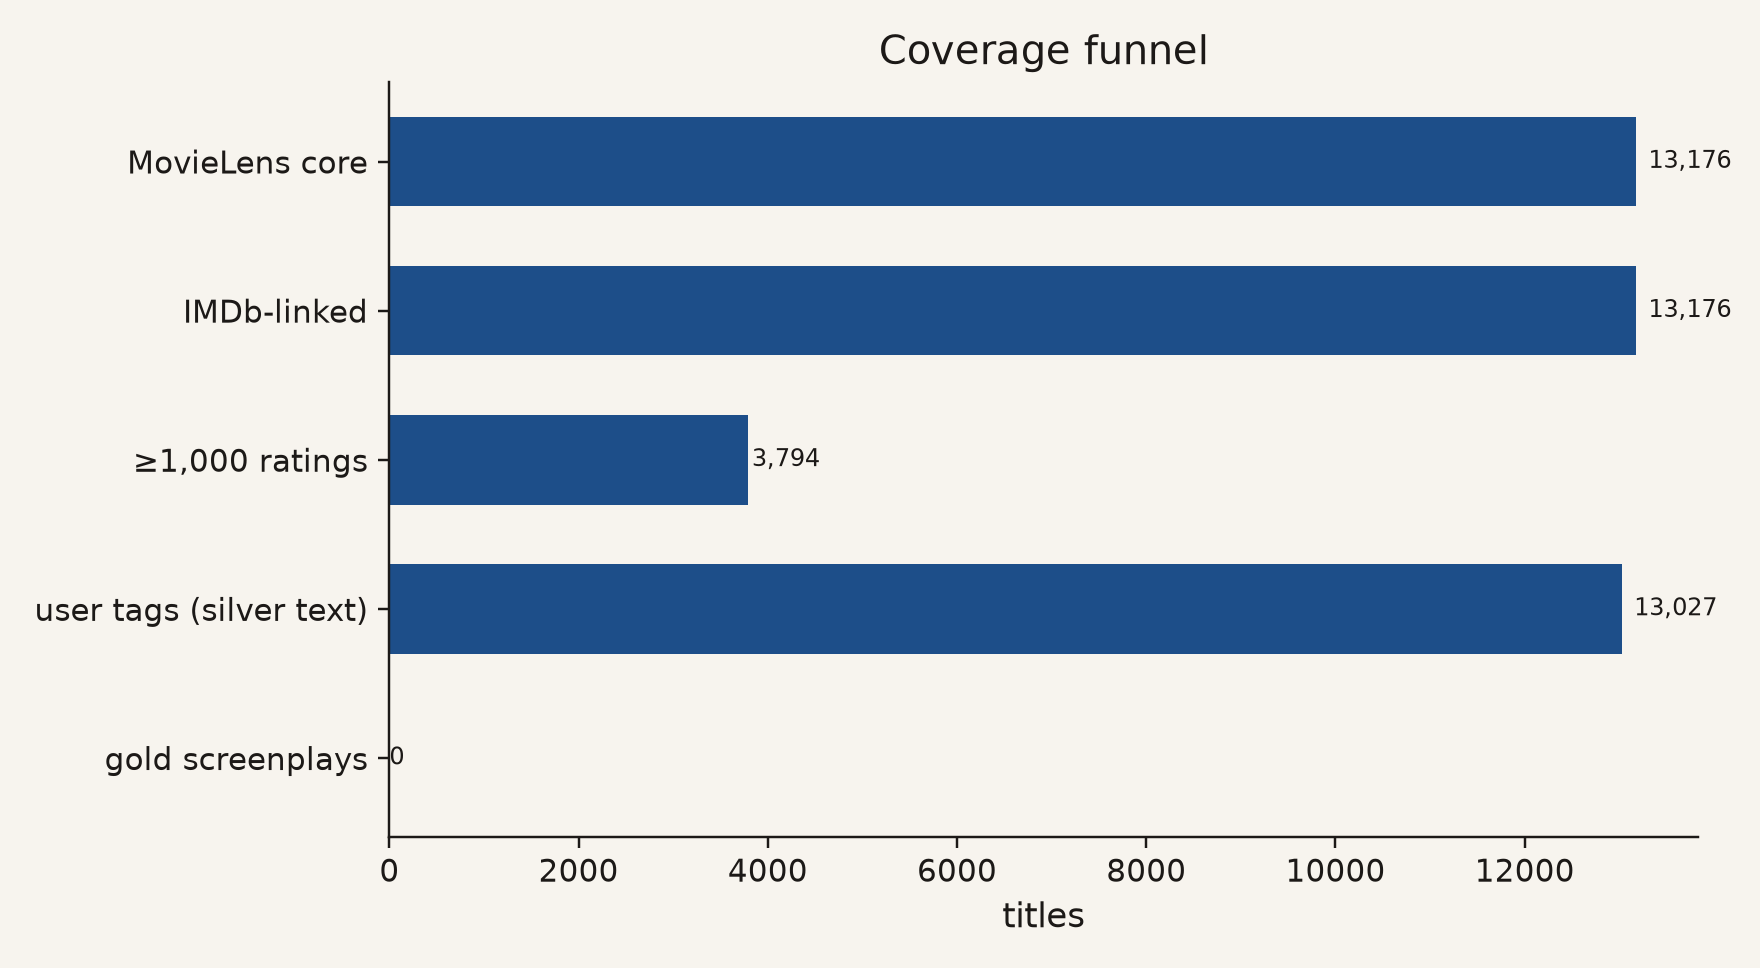
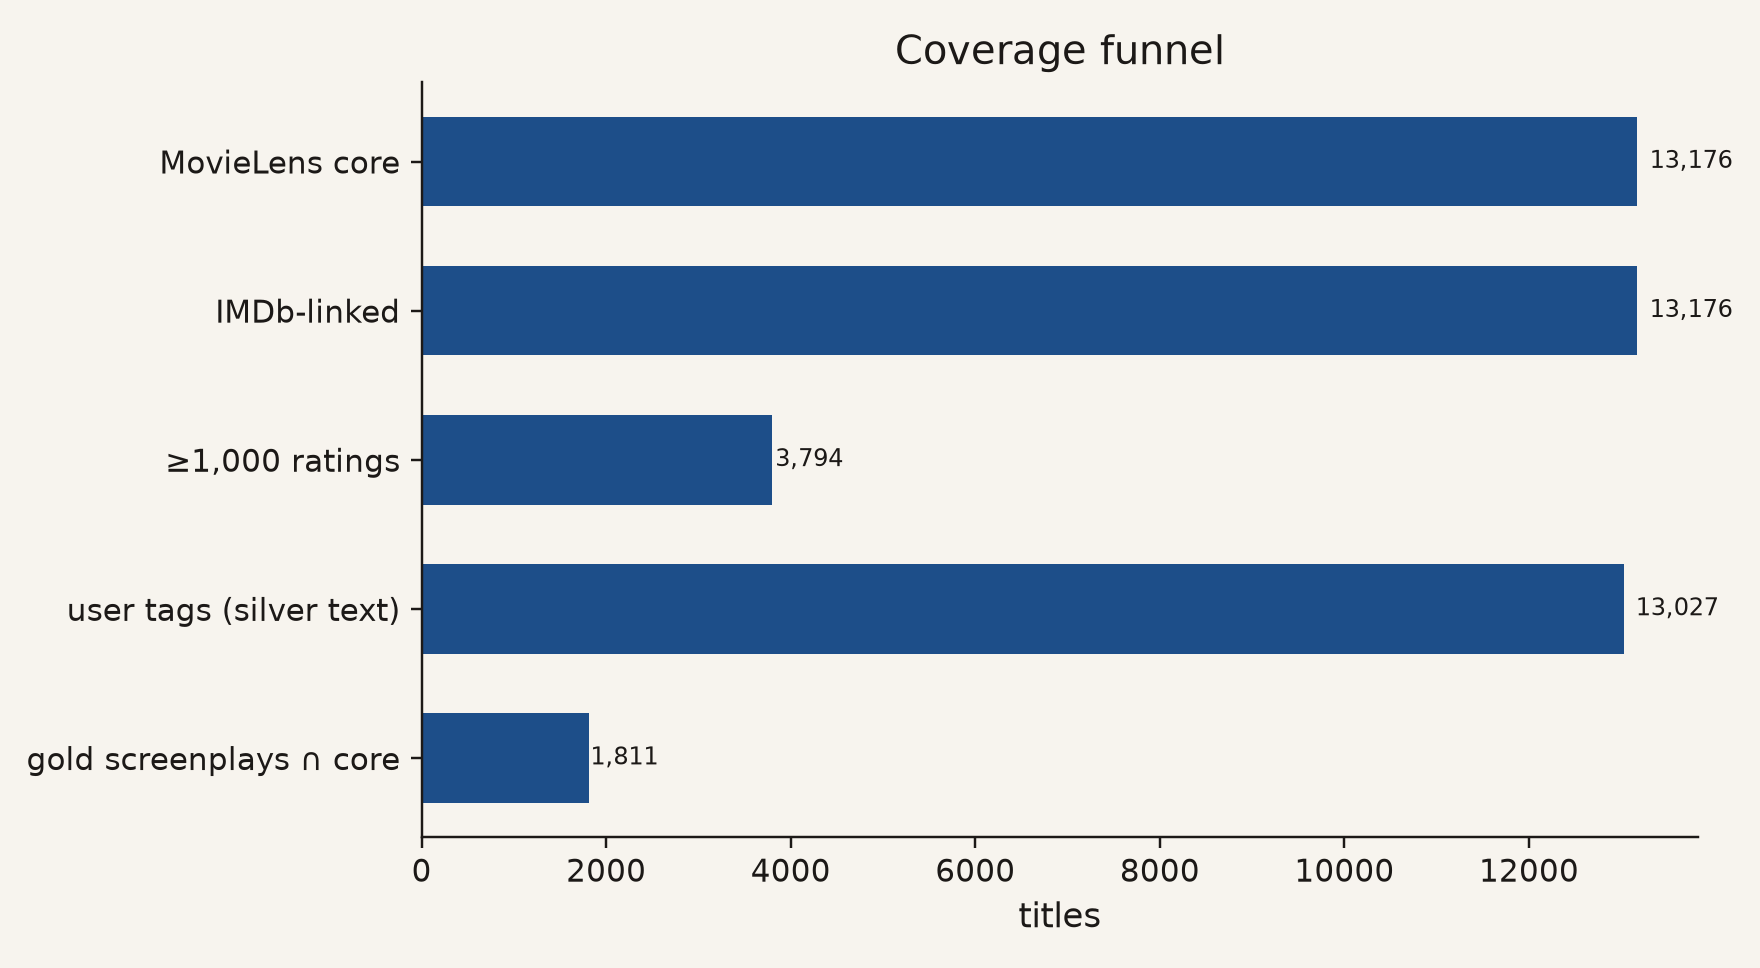
Train MovieSum screenplay vs dialogue on the MovieLens overlap.
Scale structure features and LayerNorm the residual so H2 is a real comparison; hashed scene n-grams still fail to recover collaborative z.

diff --git a/src/audience_predictor/models/hierarchical.py b/src/audience_predictor/models/hierarchical.py
@@ -57,6 +57,7 @@ class NarrativeSetEncoder(eqx.Module):
     query: jax.Array
     pma: eqx.nn.MultiheadAttention
     ln_pma: eqx.nn.LayerNorm
+    ln_struct: eqx.nn.LayerNorm
     delta_mlp: eqx.nn.Linear
     mu_head: eqx.nn.Linear
     log_var_head: eqx.nn.Linear
@@ -87,6 +88,7 @@ class NarrativeSetEncoder(eqx.Module):
         self.query = jax.random.normal(keys[4], (1, model_dim)) * 0.02
         self.pma = eqx.nn.MultiheadAttention(num_heads=n_heads, query_size=model_dim, key=keys[5])
         self.ln_pma = eqx.nn.LayerNorm(model_dim)
+        self.ln_struct = eqx.nn.LayerNorm(model_dim)
         self.delta_mlp = eqx.nn.Linear(model_dim, out_dim, key=keys[6])
         self.mu_head = eqx.nn.Linear(model_dim, out_dim, key=keys[7])
         self.log_var_head = eqx.nn.Linear(model_dim, 1, key=keys[8])
@@ -106,7 +108,7 @@ class NarrativeSetEncoder(eqx.Module):
 
     def encode_delta(self, action: jax.Array, structure: jax.Array, mask: jax.Array) -> jax.Array:
         tokens = jax.vmap(self.in_proj_a)(action)
-        pooled = self._pool(tokens, mask) + self.struct_proj(structure)
+        pooled = self._pool(tokens, mask) + self.ln_struct(self.struct_proj(structure))
         return self.delta_mlp(jax.nn.gelu(pooled))
 
     def __call__(

diff --git a/src/audience_predictor/data/screenplay_parser.py b/src/audience_predictor/data/screenplay_parser.py
@@ -172,18 +172,24 @@ def structural_features(parsed: ParsedScreenplay) -> dict[str, float]:
         co_edges += k * (k - 1) // 2
     density = co_edges / max(n_chars * (n_chars - 1) / 2, 1)
     return {
-        "n_scenes": float(parsed.n_scenes),
-        "median_scene_length": float(sorted(scene_lens)[len(scene_lens) // 2]),
+        "n_scenes": _log1p(parsed.n_scenes),
+        "median_scene_length": _log1p(sorted(scene_lens)[len(scene_lens) // 2]),
         "dialogue_fraction": dialogue_chars / total,
-        "action_density": action_chars / n_scenes,
-        "n_characters": float(n_chars),
+        "action_density": _log1p(action_chars / n_scenes),
+        "n_characters": _log1p(n_chars),
         "character_entropy": float(entropy),
         "location_entropy": float(loc_entropy),
-        "n_locations": float(len(loc_set)),
-        "graph_n_edges": float(co_edges),
+        "n_locations": _log1p(len(loc_set)),
+        "graph_n_edges": _log1p(co_edges),
         "graph_density": float(density),
         "scene_transition_rate": float(len(parsed.transitions)) / n_scenes,
     }
+
+
+def _log1p(value: float | int) -> float:
+    import math
+
+    return math.log1p(max(float(value), 0.0))
 
 
 STRUCT_KEYS = (

diff --git a/tests/test_parser.py b/tests/test_parser.py
@@ -1,3 +1,5 @@
+import math
+
 from audience_predictor.data.screenplay_parser import parse_screenplay, structural_features
 
 
@@ -14,9 +16,12 @@ def test_parse_scene_headings_and_characters(sample_screenplay):
 
 
 def test_structural_features_are_finite(sample_screenplay):
-    stats = structural_features(parse_screenplay(sample_screenplay))
-    assert stats["n_scenes"] == 3
+    parsed = parse_screenplay(sample_screenplay)
+    stats = structural_features(parsed)
+    assert parsed.n_scenes == 3
+    assert stats["n_scenes"] == math.log1p(3)
     assert 0 < stats["dialogue_fraction"] < 1
-    assert stats["n_characters"] == 2
-    assert stats["graph_n_edges"] >= 1
+    assert stats["n_characters"] == math.log1p(2)
+    assert stats["graph_n_edges"] >= math.log1p(1)
     assert stats["character_entropy"] > 0
+    assert all(math.isfinite(v) for v in stats.values())

diff --git a/src/audience_predictor/report.py b/src/audience_predictor/report.py
@@ -65,6 +65,10 @@ def _findings() -> str:
             extra.append(f"Matched-N genome (gold train only) is {gg.get('cosine_mean', 0):.3f}.")
         if g_gold:
             extra.append(f"Full-data genome scored on the same gold holdout is {g_gold.get('cosine_mean', 0):.3f}.")
+        if max(sp_cos, dl_cos) < 0.1:
+            extra.append(
+                "Hashed n-grams of scene text do not recover z_i; a pretrained language encoder is the next lever, not more MovieSum scripts."
+            )
         extra_txt = " ".join(extra)
         gold_note = f"""
 - **H2 ({h2}).** On MovieSum ∩ holdout (n={sp.get('n', 0)}), full screenplay

diff --git a/tests/test_hierarchical.py b/tests/test_hierarchical.py
@@ -58,3 +58,13 @@ def test_vmap_over_movies(sample_screenplay):
     mu, log_var, bias, aux, z_d, delta = batched(d2, a2, m2, s2)
     assert mu.shape == (2, 8)
     assert log_var.shape == (2,)
+
+
+def test_large_structure_does_not_explode(sample_screenplay):
+    d, a, mask, struct = blocks_from_screenplay(sample_screenplay, hash_dim=32, max_blocks=8)
+    model = _model()
+    huge = jnp.asarray(struct[0]).at[:].set(1.0e4)
+    mu, log_var, *_ = model(d[0], a[0], mask[0], huge)
+    assert np.isfinite(np.asarray(mu)).all()
+    assert float(np.linalg.norm(mu)) < 50.0
+    assert float(np.exp(0.5 * np.asarray(log_var))) < 10.0

diff --git a/src/audience_predictor/pipeline.py b/src/audience_predictor/pipeline.py
@@ -300,7 +300,7 @@ def run_figures(config: Config) -> Path:
         ablation_rows.append(
             (label, metrics["train"]["cosine_mean"], metrics["holdout"]["cosine_mean"])
         )
-        if modality in {"genome", "screenplay"} or primary is None:
+        if modality == "genome" or primary is None:
             primary = (modality, pred)
 
     if primary is None:

diff --git a/reports/narrative-audience.md b/reports/narrative-audience.md
@@ -27,12 +27,12 @@ content-like signals:
 - MovieLens "genome" tags (a rich but non-narrative content baseline)
 - the words viewers themselves tag the film with (a silver stand-in for
   dialogue and cultural reception)
-- a **set transformer** that treats those tags (and, later, screenplay scenes)
-  as an unordered collection of story blocks
+- a **set transformer** over MovieSum scenes (dialogue vs full screenplay)
+  once the gold XML is ingested locally
 
-Until a gold corpus of several thousand genuine screenplays is licensed and
-parsed, we do **not** claim "the screenplay predicts the audience." We claim
-something more careful and already useful:
+MovieSum Wikipedia summaries are post-release text and are **never** used as
+screenplay input. A subtitle is not a screenplay; hashed user tags are not
+either.
 
 > Story-shaped information, encoded as a set of blocks with a probabilistic
 > Equinox model, recovers a meaningful slice of the audience a film eventually
@@ -77,11 +77,14 @@ metadata     genre + year
 genome       1,128 tag relevances + genre + year     ← bar to beat
 tags         hashed MovieLens user tags (bag)
 hierarchical set transformer over the same tags as blocks
-screenplay   parser ready; corpus not in git
+genome_gold  genome MLP trained only on MovieSum ∩ train
+dialogue     MovieSum spoken lines (action/structure zeroed)
+screenplay   MovieSum scenes + action + structure     ← H2
 ```
 
-Movie-level split: 20% of well-rated titles are held out entirely. The text
-model never sees their collaborative embedding during training.
+Movie-level split: 20% of well-rated titles are held out entirely. Screenplay
+and dialogue models train only on MovieSum ∩ train; they never see zeros for
+titles without a script.
 
 ### Architecture, in one picture
 
@@ -107,12 +110,15 @@ mean rating, rating std, P(r ≥ 4), and P(r ≤ 2).
 
 ### Results so far
 
-| Modality | Train cosine | Holdout cosine | Holdout RMSE | Holdout NLL |
-|----------|-------------:|---------------:|-------------:|------------:|
-| metadata | 0.202 | 0.185 | 0.039 | -2.743 |
-| genome | 0.387 | 0.379 | 0.035 | -2.863 |
-| tags | 0.051 | 0.037 | 0.040 | -2.716 |
-| hierarchical | 0.002 | 0.002 | 0.114 | -1.560 |
+| Modality | Train cosine | Holdout cosine | Holdout n | Gold-holdout cosine |
+|----------|-------------:|---------------:|----------:|--------------------:|
+| metadata | 0.202 | 0.185 | 1,596 | 0.184 |
+| genome | 0.387 | 0.379 | 1,596 | 0.436 |
+| tags | 0.051 | 0.037 | 1,596 | 0.053 |
+| hierarchical | 0.002 | 0.002 | 1,596 | -0.019 |
+| genome_gold | 0.414 | 0.407 | 332 | 0.407 |
+| screenplay | 0.009 | 0.004 | 332 | 0.004 |
+| dialogue | 0.054 | 0.043 | 332 | 0.043 |
 
 
 ### What this run actually found
@@ -132,9 +138,12 @@ mean rating, rating std, P(r ≥ 4), and P(r ≤ 2).
   -0.01 on genome holdout. The NLL term
   shrinks σ without making it track mistakes. Calibration needs a dedicated
   pass (temperature scaling or a proper heteroscedastic fit).
-- **N_screenplay ∩ MovieLens is still 0.** The parser, provenance schema, and
-  residual head are waiting on a gold corpus. Do not read tag results as
-  screenplay results.
+
+- **H2 (not supported).** On MovieSum ∩ holdout (n=332), full screenplay
+  cosine is 0.004 vs dialogue-only 0.043 (Δ=-0.039).
+  Matched-N genome (gold train only) is 0.407. Full-data genome scored on the same gold holdout is 0.436. Hashed n-grams of scene text do not recover z_i; a pretrained language encoder is the next lever, not more MovieSum scripts. Wikipedia summaries from MovieSum are **not** used — they leak
+  post-release reception.
+
 
 
 ![ablation.png](figures/ablation.png)
@@ -176,15 +185,19 @@ depth, silver tags — is already in place.
 ```bash
 uv sync --dev
 uv run pytest
-uv run python -m audience_predictor coverage
-uv run python -m audience_predictor train --modality genome
-uv run python -m audience_predictor train --modality metadata
-uv run python -m audience_predictor train --modality tags
-uv run python -m audience_predictor train --modality hierarchical
-uv run python -m audience_predictor evaluate
-uv run python -m audience_predictor scaling
-uv run python -m audience_predictor figures
-uv run python -m audience_predictor report
+PYTHONPATH=src uv run python -m audience_predictor coverage
+PYTHONPATH=src uv run python -m audience_predictor ingest-moviesum
+PYTHONPATH=src uv run python -m audience_predictor train --modality genome
+PYTHONPATH=src uv run python -m audience_predictor train --modality metadata
+PYTHONPATH=src uv run python -m audience_predictor train --modality tags
+PYTHONPATH=src uv run python -m audience_predictor train --modality hierarchical
+PYTHONPATH=src uv run python -m audience_predictor train --modality genome_gold
+PYTHONPATH=src uv run python -m audience_predictor train --modality dialogue
+PYTHONPATH=src uv run python -m audience_predictor train --modality screenplay
+PYTHONPATH=src uv run python -m audience_predictor evaluate
+PYTHONPATH=src uv run python -m audience_predictor scaling
+PYTHONPATH=src uv run python -m audience_predictor figures
+PYTHONPATH=src uv run python -m audience_predictor report
 ```
 
 Checkpoints live in `outputs/<modality>/`. Figures live in `reports/figures/`.
@@ -257,7 +270,7 @@ calibration, not just accuracy.
 | ID | Claim | Status in this milestone |
 |----|-------|--------------------------|
 | H1 | Content predicts audience beyond metadata | Testable: genome vs metadata holdout cosine |
-| H2 | Full screenplay > dialogue | Structurally implemented; empirically pending gold scripts |
+| H2 | Full screenplay > dialogue | MovieSum gold: `screenplay` vs `dialogue` holdout cosine |
 | H3 | Silver pretrain helps gold | Pending gold scripts |
 | H4 | Multi-interest targets beat a single z | Target space is already multi-interest; not re-ablated here |
 | H5 | σ tracks error | `uncertainty.png` / Spearman(error, σ) |
@@ -275,9 +288,10 @@ calibration, not just accuracy.
 
 ### What "done" looks like for the gold-script era
 
-Keep the Equinox encoder. Replace hashed tags with parsed scenes. Precompute
-block embeddings once. Fine-tune. The residual head is already the experiment.
-The coverage report is already the go/no-go dashboard
+Keep the Equinox encoder. MovieSum is the first gold dump (identifiers and
+hashed blocks only in `data/processed/gold/`, scripts stay in `data/raw/`).
+Next: SubLens-20M silver subtitles, then a real language encoder in place of
+blake2b hashing. The coverage report is the go/no-go dashboard
 (`N_screenplay ∩ MovieLens`).
 
 ---

diff --git a/reports/coverage.md b/reports/coverage.md
@@ -1,8 +1,8 @@
 # Coverage report
 
-Join spine: `catalog-value` core universe. Narrative documents are counted
-without collapsing document types. Gold screenplays are **not** in this
-repository; `N_screenplay ∩ MovieLens = 0`.
+Join spine: `catalog-value` core universe. Gold screenplay *text* is not in git
+(MovieSum is CC BY-NC 4.0; we store identifiers and derived features only).
+`N_screenplay ∩ MovieLens = 1823`.
 
 | Quantity | N |
 |----------|--:|
@@ -14,8 +14,9 @@ repository; `N_screenplay ∩ MovieLens = 0`.
 | ≥1,000 ratings | 3,794 |
 | ≥10,000 ratings | 588 |
 | With MovieLens user tags (silver text) | 13,027 |
-| Genuine screenplays | 0 |
-| Screenplay ∩ MovieLens | 0 |
+| Genuine screenplays (MovieSum) | 2,200 |
+| Screenplay ∩ MovieLens core | 1,823 |
+| Screenplay ∩ ≥1,000 ratings | 1,268 |
 | Core ratings | 24,639,608 |
 | Year range | 1896–2019 |
 
